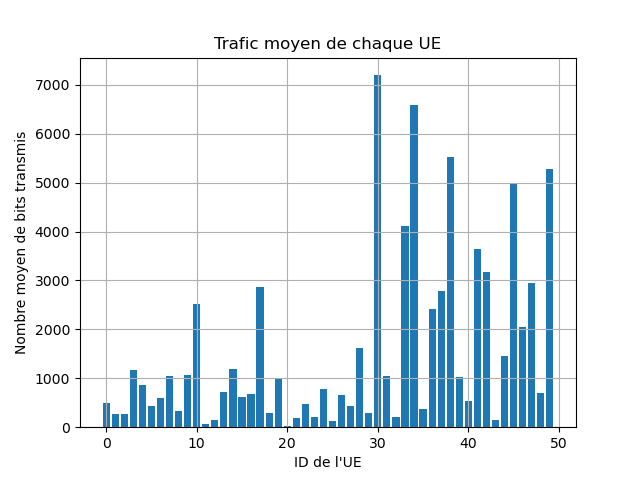
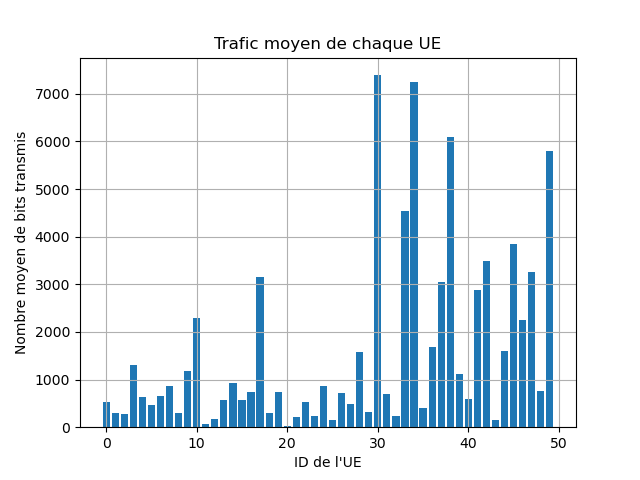
updated packet simulation to have  10 creneau instead of 11

diff --git a/lab3_eq7.py b/lab3_eq7.py
@@ -943,7 +943,9 @@ def simulate_packet_transmission(fichier_de_cas, fichier_de_device, antennas, ue
 
     # Boucle de simulation
     temps_courant = temps_initial
-    while temps_courant <= temps_final:
+    while temps_courant < temps_final:
+        if temps_courant == 9.0 :
+            print("EHH!")
         # Logique de simulation de transmission de paquets entre antennes et UEs
         # Pour chaque UE
         for ue in ues:
@@ -963,7 +965,7 @@ def simulate_packet_transmission(fichier_de_cas, fichier_de_device, antennas, ue
 
                     if ue.nbits == [] :
                         # Mettre à jour l'attribut nbits de l'antenne si celui-ci est vide
-                        while len(ue.nbits) < int((temps_final - temps_initial) / pas_temps) + 1:
+                        while len(ue.nbits) < int((temps_final - temps_initial) / pas_temps) :
                             ue.nbits.append(0)
                     ue.nbits[int(temps_courant / pas_temps)] += nbits_transmis 
                     
@@ -972,7 +974,7 @@ def simulate_packet_transmission(fichier_de_cas, fichier_de_device, antennas, ue
                     for antenne in antennas:
                         if antenne.id == antenne_associee_id:
                             # if len(antenne.nbits) >= (temps_courant + pas_temps):
-                            #     # while len(antenne.nbits) < int((temps_final - temps_initial) / pas_temps) + 1:
+                            #     # while len(antenne.nbits) < int((temps_final - temps_initial) / pas_temps) :
                             #     #     # Mettre à jour l'attribut nbits de l'antenne si celui-ci est vide
                             #     #     antenne.nbits.append(0)
                             #     # Mettre à jour l'attribut nbits de l'antenne
@@ -982,13 +984,16 @@ def simulate_packet_transmission(fichier_de_cas, fichier_de_device, antennas, ue
                             
                             if antenne.nbits == [] :
                                 # Mettre à jour l'attribut nbits de l'antenne si celui-ci est vide
-                                while len(antenne.nbits) < int((temps_final - temps_initial) / pas_temps) + 1:
+                                while len(antenne.nbits) < int((temps_final - temps_initial) / pas_temps) :
                                     antenne.nbits.append(0)
                             antenne.nbits[int(temps_courant / pas_temps)] += nbits_transmis 
                             
                             # Ajouter l'UE à la liste des UEs actives de l'antenne si pas deja ajoute 
-                            if ue.id not in antenne.live_ues:
-                                antenne.live_ues.append(ue.id)                            
+                            if antenne.live_ues == [] :
+                                while len(antenne.live_ues) < int((temps_final - temps_initial) / pas_temps) :
+                                    antenne.live_ues.append([])
+                            if ue.id not in antenne.live_ues[int(temps_courant / pas_temps)]:
+                                antenne.live_ues[int(temps_courant / pas_temps)].append(ue.id)                            
                             break
 
         
